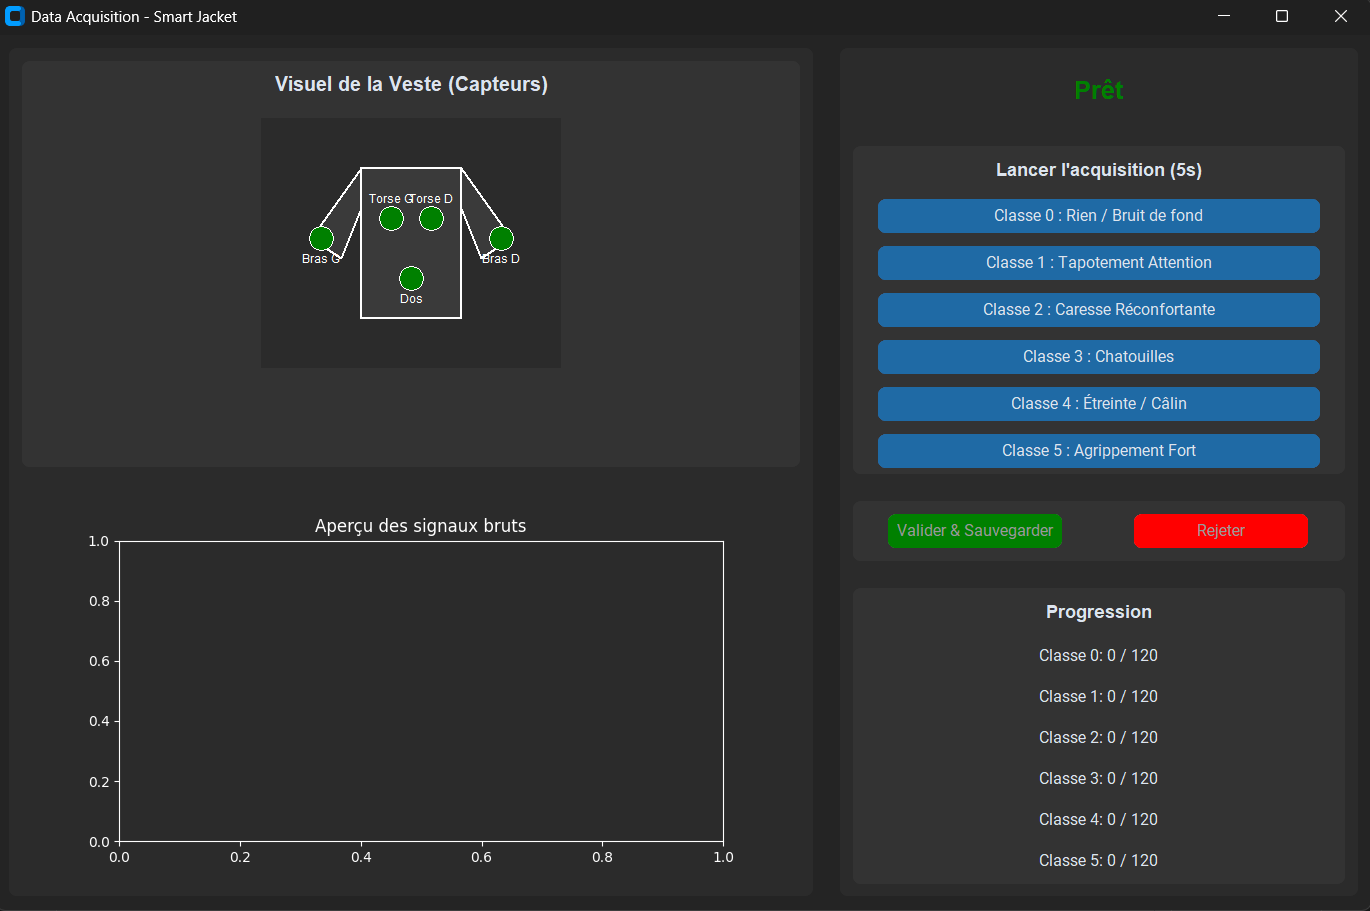
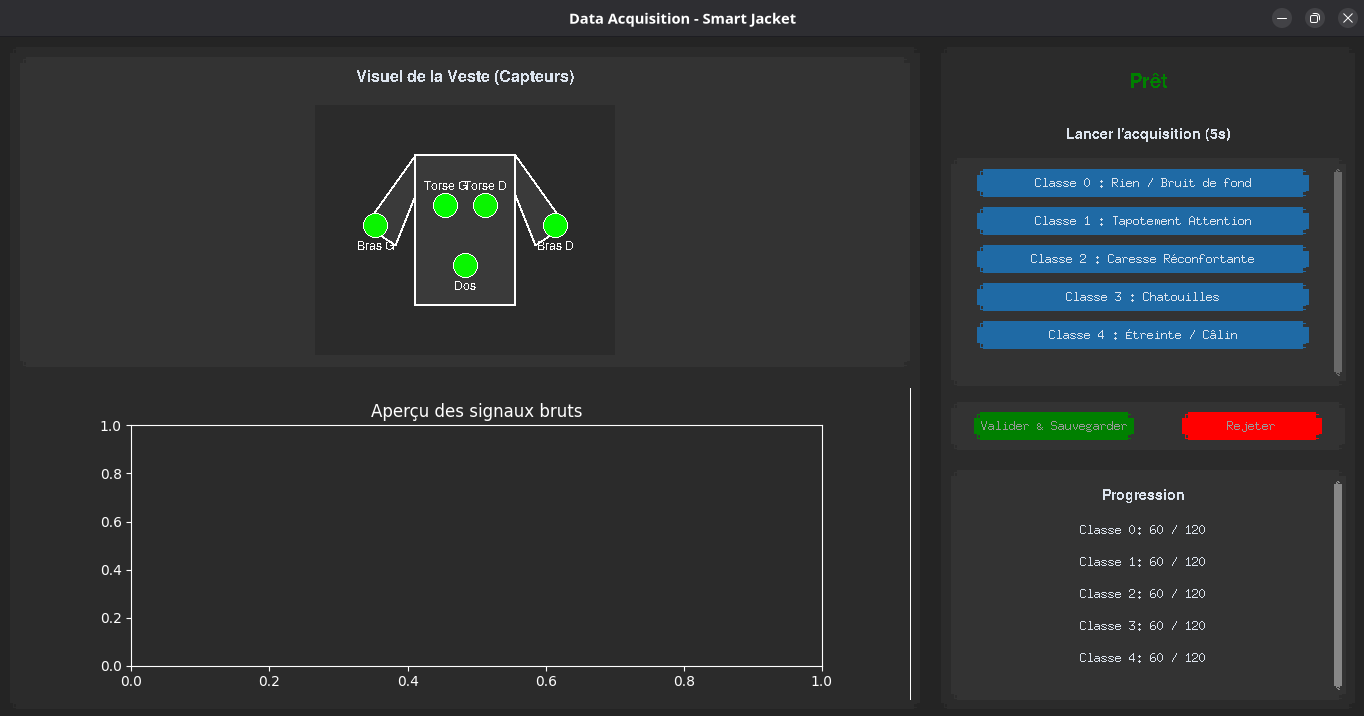
feat: Added the --derivate, --dropout, and --extend options

diff --git a/train/train.py b/train/train.py
@@ -1,3 +1,6 @@
+import argparse
+import os
+import glob
 import torch
 import torch.nn as nn
 import numpy as np
@@ -7,7 +10,19 @@ from sklearn.metrics import confusion_matrix, ConfusionMatrixDisplay
 import matplotlib.pyplot as plt
 
 # ==========================================
-# 1. LE POUVOIR DE LA SEED 42
+# 1. PARSING DES ARGUMENTS LIGNE DE COMMANDE
+# ==========================================
+def parse_args():
+    parser = argparse.ArgumentParser(description="Entraînement de TactileNet")
+    parser.add_argument("--dropout", action="store_true", help="Appliquer un dropout de 0.5 avant la classification")
+    parser.add_argument("--derivate", action="store_true", help="Utiliser les signaux dérivés (100Hz_deriv)")
+    parser.add_argument("--extend", action="store_true", help="Utiliser 10 canaux (combine signaux bruts et dérivés)")
+    return parser.parse_args()
+
+args = parse_args()
+
+# ==========================================
+# 2. LE POUVOIR DE LA SEED 42
 # ==========================================
 def set_seed(seed=42):
     np.random.seed(seed)
@@ -18,31 +33,69 @@ def set_seed(seed=42):
 set_seed(42)
 
 # ==========================================
-# 2. PRÉPARATION DES DONNÉES
+# 3. PRÉPARATION DES DONNÉES
 # ==========================================
-import os
-import glob
-
 base_dir = os.path.dirname(os.path.dirname(os.path.abspath(__file__)))
 data_dir = os.path.join(base_dir, "data_collected")
-npz_files = glob.glob(os.path.join(data_dir, "class_*_100Hz_deriv.npz"))
+
+if args.extend:
+    # Recherche des fichiers de base (bruts), on chargera les dérivés dynamiquement
+    npz_files_base = glob.glob(os.path.join(data_dir, "class_*_100Hz.npz"))
+elif args.derivate:
+    # Recherche uniquement des dérivés
+    npz_files_base = glob.glob(os.path.join(data_dir, "class_*_100Hz_deriv.npz"))
+else:
+    # Recherche uniquement des bruts (comportement par défaut)
+    npz_files_base = glob.glob(os.path.join(data_dir, "class_*_100Hz.npz"))
 
 X_list = []
 y_list = []
 
-for filepath in npz_files:
+for filepath in npz_files_base:
     filename = os.path.basename(filepath)
     class_id = int(filename.split('_')[1])
     
-    data = np.load(filepath)
-    for key in data.files:
-        sample = data[key]  # shape [500, 5]
-        # Transpose to [5, 500] for PyTorch Conv1d
-        sample = sample.transpose(1, 0)
-        X_list.append(sample)
-        y_list.append(class_id)
+    # On ignore la classe 5 par sécurité, même si on est censé ne plus l'avoir acquise
+    if class_id == 5:
+        continue
+    
+    if args.extend:
+        # Combiner raw et deriv
+        filepath_deriv = filepath.replace("_100Hz.npz", "_100Hz_deriv.npz")
+        if not os.path.exists(filepath_deriv):
+            print(f"Attention, fichier dérivé manquant pour {filename}. On saute cet échantillon.")
+            continue
+            
+        data_raw = np.load(filepath)
+        data_deriv = np.load(filepath_deriv)
+        
+        for key in data_raw.files:
+            if key in data_deriv.files:
+                sample_raw = data_raw[key]      # shape [500, 5]
+                sample_deriv = data_deriv[key]  # shape [500, 5]
+                
+                # Concaténation le long de l'axe des canaux
+                sample_combined = np.concatenate([sample_raw, sample_deriv], axis=1) # [500, 10]
+                
+                # Transpose to [10, 500] for PyTorch Conv1d
+                sample_combined = sample_combined.transpose(1, 0)
+                X_list.append(sample_combined)
+                y_list.append(class_id)
+    else:
+        # Standard: charger juste le fichier ciblé
+        data = np.load(filepath)
+        for key in data.files:
+            sample = data[key]  # shape [500, 5]
+            # Transpose to [5, 500] for PyTorch Conv1d
+            sample = sample.transpose(1, 0)
+            X_list.append(sample)
+            y_list.append(class_id)
 
-X_numpy = np.array(X_list)  # [Batch, 5, 500]
+if len(X_list) == 0:
+    print("Erreur: Aucune donnée trouvée. Vérifiez que les fichiers NPZ sont présents dans data_collected.")
+    exit(1)
+
+X_numpy = np.array(X_list)  # [Batch, Channels, 500]
 y_numpy = np.array(y_list)  # [Batch]
 
 # 80% train / 20% validation Répartie équitablement
@@ -65,17 +118,23 @@ train_loader = DataLoader(TensorDataset(X_train_t, y_train_t), batch_size=32, sh
 val_loader   = DataLoader(TensorDataset(X_val_t, y_val_t), batch_size=32, shuffle=False)
 
 print(f"Entraînement : {len(X_train_t)} exemples | Validation : {len(X_val_t)} exemples")
+print(f"Shape des données d'entrée : {X_train_t.shape}")
 
 # ==========================================
-# 3. L'ARCHITECTURE : TACTILENET 
+# 4. L'ARCHITECTURE : TACTILENET 
 # ==========================================
 class TactileNet(nn.Module):
-    def __init__(self):
+    def __init__(self, in_channels=5, use_dropout=False):
         super().__init__()
+        
+        self.use_dropout = use_dropout
+        
+        # Normalisation des données en entrée
+        self.input_norm = nn.BatchNorm1d(num_features=in_channels)
         
         # Bloc 1 : On regarde les petites variations
         self.bloc1 = nn.Sequential(
-            nn.Conv1d(in_channels=5, out_channels=16, kernel_size=7, padding=3),
+            nn.Conv1d(in_channels=in_channels, out_channels=16, kernel_size=7, padding=3),
             nn.ReLU(),
             nn.MaxPool1d(kernel_size=2)
         )
@@ -96,26 +155,38 @@ class TactileNet(nn.Module):
         )
         
         # Tête de décision
-        self.classifier = nn.Linear(in_features=64, out_features=6)
+        if self.use_dropout:
+            self.dropout = nn.Dropout(0.5)
+            
+        self.classifier = nn.Linear(in_features=64, out_features=5)
 
     def forward(self, x):
+        # Normalisation des données dès l'entrée du réseau
+        x = self.input_norm(x)
         x = self.bloc1(x)
         x = self.bloc2(x)
         x = self.bloc3(x)
         x = torch.flatten(x, 1)
+        
+        if self.use_dropout:
+            x = self.dropout(x)
+            
         x = self.classifier(x)
         return x
 
 # ==========================================
-# 4. LE MOTEUR D'ENTRAÎNEMENT
+# 5. LE MOTEUR D'ENTRAÎNEMENT
 # ==========================================
-model = TactileNet()
+num_channels = 10 if args.extend else 5
+model = TactileNet(in_channels=num_channels, use_dropout=args.dropout)
+
 criterion = nn.CrossEntropyLoss() #Fonction Perte
 optimizer = torch.optim.AdamW(model.parameters(), lr=1e-3) # Optimizer
 
-epochs = 300
+# V2 used 500 epochs, V1 used 300 epochs. on garde 300 par défaut sauf s'il y a extend.
+epochs = 500 if args.extend else 300
 
-print("\n Lancement de l'entraînement...\n")
+print(f"\n Lancement de l'entraînement avec {num_channels} canaux (Dropout: {args.dropout}, Epochs: {epochs})...\n")
 
 for epoch in range(epochs):
     model.train()
@@ -156,7 +227,7 @@ for epoch in range(epochs):
 print("\nEntraînement terminé !")
 
 # ==========================================
-# 5. MATRICE DE CONFUSION SUR LA VALIDATION
+# 6. MATRICE DE CONFUSION SUR LA VALIDATION
 # ==========================================
 print("\n Génération de la matrice de confusion...")
 model.eval()
@@ -173,16 +244,37 @@ with torch.no_grad():
 
 # Calcul et affichage avec scikit-learn et matplotlib
 cm = confusion_matrix(all_labels, all_preds)
-disp = ConfusionMatrixDisplay(confusion_matrix=cm, display_labels=[0, 1, 2, 3, 4, 5])
+disp = ConfusionMatrixDisplay(confusion_matrix=cm, display_labels=[0, 1, 2, 3, 4])
 
 fig, ax = plt.subplots(figsize=(8, 6))
 disp.plot(cmap=plt.cm.Blues, ax=ax)
-plt.title("Matrice de Confusion - Données de Validation")
+titre_matrice = "Matrice de Confusion"
+if args.extend:
+    titre_matrice += " - 10 canaux"
+elif args.derivate:
+    titre_matrice += " - Signaux dérivés"
+else:
+    titre_matrice += " - Signaux bruts"
+    
+plt.title(titre_matrice)
 plt.show()
 
 # ==========================================
-# 6. SAUVEGARDE DU MODÈLE
+# 7. SAUVEGARDE DU MODÈLE
 # ==========================================
-model_path = os.path.join(base_dir, "tactile_model.pth")
+nom_modele = "tactile_model"
+if args.extend:
+    nom_modele += "_v2_10ch"
+elif args.derivate:
+    nom_modele += "_deriv"
+else:
+    nom_modele += "_raw"
+    
+if args.dropout:
+    nom_modele += "_drop"
+    
+nom_modele += ".pth"
+
+model_path = os.path.join(base_dir, nom_modele)
 torch.save(model.state_dict(), model_path)
 print(f"\nModèle sauvegardé sous : {model_path}")

diff --git a/docs/arch.py b/docs/arch.py
@@ -1,8 +1,9 @@
+import os
 import matplotlib.pyplot as plt
 import matplotlib.patches as patches
 
 def draw_architecture():
-    fig, ax = plt.subplots(figsize=(10, 13)) # Légèrement agrandi pour l'espacement
+    fig, ax = plt.subplots(figsize=(10, 15)) # Agrandissement vertical
     ax.axis('off')
 
     # Format : (Nom, Description, Shape_out, Espace_supplementaire_en_dessous)
@@ -10,83 +11,79 @@ def draw_architecture():
         ("Input", "Série temporelle brute", "[B, 5, 500]", 0.02),
         
         ("Bloc 1 : Conv1d + ReLU", "Filtres: 16 | Noyau: 7 | Pad: 3", "[B, 16, 500]", 0.0),
-        ("Bloc 1 : MaxPool1d", "Noyau: 2 (Réduit la taille)", "[B, 16, 250]", 0.05), # Espace après Bloc 1
+        ("Bloc 1 : MaxPool1d", "Noyau: 2 (Réduit la taille)", "[B, 16, 250]", 0.05),
         
         ("Bloc 2 : Conv1d + ReLU", "Filtres: 32 | Noyau: 5 | Pad: 2", "[B, 32, 250]", 0.0),
-        ("Bloc 2 : MaxPool1d", "Noyau: 2 (Réduit la taille)", "[B, 32, 125]", 0.05), # Espace après Bloc 2
+        ("Bloc 2 : MaxPool1d", "Noyau: 2 (Réduit la taille)", "[B, 32, 125]", 0.05),
         
         ("Bloc 3 : Conv1d + ReLU", "Filtres: 64 | Noyau: 3 | Pad: 1", "[B, 64, 125]", 0.0),
-        ("Bloc 3 : Global Average Pooling", "Moyenne globale sur la longueur", "[B, 64, 1]", 0.05), # Espace après Bloc 3
+        ("Bloc 3 : Global Average Pooling", "Moyenne globale sur la longueur", "[B, 64, 1]", 0.05),
         
         ("Flatten", "Mise à plat de la dernière dimension", "[B, 64]", 0.02),
-        ("Classifier (Linear)", "Couche dense (64 -> 6 classes)", "[B, 6]", 0.0)
+        ("Classifier (Linear)", "Couche dense (64 -> 5 classes)", "[B, 5]", 0.0)
     ]
 
     box_width = 0.55
     box_height = 0.07
-    x_center = 0.5  # Tout est recentré
+    x_center = 0.5
     
     color_box = "#4C72B0"
     color_text = "white"
     color_dim = "#C44E52"
 
-    # Calcul dynamique des positions Y pour gérer les espacements entre blocs
     y_positions = []
     current_y = 0.95
-    base_gap = 0.08 # Espace de base suffisant pour la flèche et le texte
+    base_gap = 0.1 # Augmentation de l'espace de base
 
     for i in range(len(steps)):
         y_positions.append(current_y)
         if i < len(steps) - 1:
-            # On soustrait la hauteur de la boîte, l'espace de base, et l'espace supplémentaire du bloc
             current_y -= (box_height + base_gap + steps[i][3])
             
-    # Ajustement de la caméra
     ax.set_ylim(current_y - 0.12, 1.05)
     ax.set_xlim(0, 1)
 
     for i, (name, desc, shape, extra_gap) in enumerate(steps):
         y = y_positions[i]
         
-        # Dessin de la boîte
         box = patches.FancyBboxPatch(
             (x_center - box_width/2, y - box_height/2), box_width, box_height,
             boxstyle="round,pad=0.02", ec="black", fc=color_box, lw=1.5
         )
         ax.add_patch(box)
         
-        # Textes à l'intérieur
         ax.text(x_center, y + 0.01, name, ha='center', va='center', 
                 fontsize=12, fontweight='bold', color=color_text)
         ax.text(x_center, y - 0.015, desc, ha='center', va='center', 
                 fontsize=9, color=color_text, style='italic')
         
-        # Flèche et texte de la dimension
         if i < len(steps) - 1:
             next_y = y_positions[i+1]
             
-            # Flèche descendant vers la prochaine boîte
             ax.annotate("", xy=(x_center, next_y + box_height/2), 
                         xytext=(x_center, y - box_height/2),
                         arrowprops=dict(arrowstyle="->", lw=2, color="black"))
             
-            # Dimension positionnée EN DESSOUS de la boîte (centrée sur la flèche)
-            # Le "bbox" crée un fond blanc pour "couper" la ligne de la flèche proprement
-            ax.text(x_center, y - box_height/2 - 0.04, f" {shape} ", 
+            # Positionnement du texte de dimension avec plus d'espace
+            ax.text(x_center, y - box_height/2 - 0.05, f" {shape} ", 
                     ha='center', va='center', fontsize=11, fontweight='bold', color=color_dim,
                     bbox=dict(facecolor='white', edgecolor='none', pad=1))
             
-    # Prédiction finale
     last_y = y_positions[-1]
     ax.annotate("", xy=(x_center, last_y - box_height/2 - 0.06), 
                 xytext=(x_center, last_y - box_height/2),
                 arrowprops=dict(arrowstyle="->", lw=2, color="black"))
-    ax.text(x_center, last_y - box_height/2 - 0.09, "Prédictions finales [B, 6]", 
+    ax.text(x_center, last_y - box_height/2 - 0.09, "Prédictions finales [B, 5]", 
             ha='center', va='center', fontsize=13, fontweight='bold', color="#55A868")
 
     plt.title("Architecture TactileNet : Blocs et Dimensions", fontsize=16, fontweight='bold', pad=10)
     plt.tight_layout()
-    plt.show()
+    
+    # Sauvegarde directe
+    save_path = os.path.join(os.path.dirname(os.path.abspath(__file__)), "arch.png")
+    plt.savefig(save_path, bbox_inches='tight', dpi=300)
+    print(f"Image générée et sauvegardée sous : {save_path}")
 
 # Exécuter la fonction
-draw_architecture()
+if __name__ == "__main__":
+    draw_architecture()

diff --git a/data_acquisition/acquisition.py b/data_acquisition/acquisition.py
@@ -37,8 +37,7 @@ CLASSES = {
     1: "Tapotement Attention",
     2: "Caresse Réconfortante",
     3: "Chatouilles",
-    4: "Étreinte / Câlin",
-    5: "Agrippement Fort"
+    4: "Étreinte / Câlin"
 }
 
 SAMPLING_RATE = 1000  # Hz
@@ -266,8 +265,6 @@ class AcquisitionApp(ctk.CTk):
                         if 1000 < self.recording_index < 1200: pattern[0] = 600
                     elif self.current_class == 2:
                         if 500 < self.recording_index < 4500: pattern[2] = 300 + 100*np.sin(sim_phase)
-                    elif self.current_class == 5:
-                        if 1000 < self.recording_index < 4000: pattern = np.array([800, 800, 800, 800, 800])
                 
                 sim_phase += 0.01
                 row = np.clip(noise + pattern, 0, 1023)

diff --git a/README.md b/README.md
@@ -11,13 +11,12 @@ The goal of **QT-jacket** is to extend the scripts to capture more sensors from 
 
 <img src="docs/arch.png" alt="Architecture TactileNet" width="500">
 
-This architecture is used to classify different types of touches on the robot's jacket. We defined 6 classes for the data acquisition:
+This architecture is used to classify different types of touches on the robot's jacket. We defined 5 classes for the data acquisition:
 - **Class 0 : Nothing / Background noise** (Robot movements, parasite noises).
 - **Class 1 : Tap_Attention** (Left or Right Arm) -> Short peaks.
 - **Class 2 : Comforting_Caress** (Back or Arm) -> Light, continuous and sliding pressure.
 - **Class 3 : Tickles** (Left + Right Torso) -> Fast and irregular pressure variations.
 - **Class 4 : Hug / Cuddle** (Global) -> Enveloping, increasing then maintained pressure.
-- **Class 5 : Strong_Grip** (Isolated area) -> Saturated signal.
 
 ### Data Acquisition and Processing
 - **Acquisition**: 1000 points per second (Hz) per sensor. Each acquisition event lasts 5 seconds, resulting in a total of 5000 points per event.

diff --git a/docs/README_FR.md b/docs/README_FR.md
@@ -11,13 +11,12 @@ L'objectif de **QT-jacket** est d'étendre les scripts pour intégrer davantage 
 
 <img src="arch.png" alt="Architecture TactileNet" width="500">
 
-Cette architecture est utilisée pour classifier différents types de touchers sur la veste du robot. Nous avons défini 6 classes pour l'acquisition des données :
+Cette architecture est utilisée pour classifier différents types de touchers sur la veste du robot. Nous avons défini 5 classes pour l'acquisition des données :
 - **Classe 0 : Rien / Bruit_de_fond** (Mouvements du robot, bruits parasites).
 - **Classe 1 : Tapotement_Attention** (Bras Gauche ou Droit) -> Pics courts.
 - **Classe 2 : Caresse_Réconfortante** (Dos ou Bras) -> Pression légère, continue et glissante.
 - **Classe 3 : Chatouilles** (Torse Gauche + Droit) -> Variations de pression rapides et irrégulières.
 - **Classe 4 : Étreinte / Câlin** (Global) -> Pression enveloppante, croissante puis maintenue.
-- **Classe 5 : Agrippement_Fort** (Zone isolée) -> Signal saturé.
 
 ### Acquisition et traitement des données
 - **Acquisition** : 1000 points par seconde (Hz) par capteur. Chaque événement d'acquisition dure 5 secondes, soit un total de 5000 points par événement.